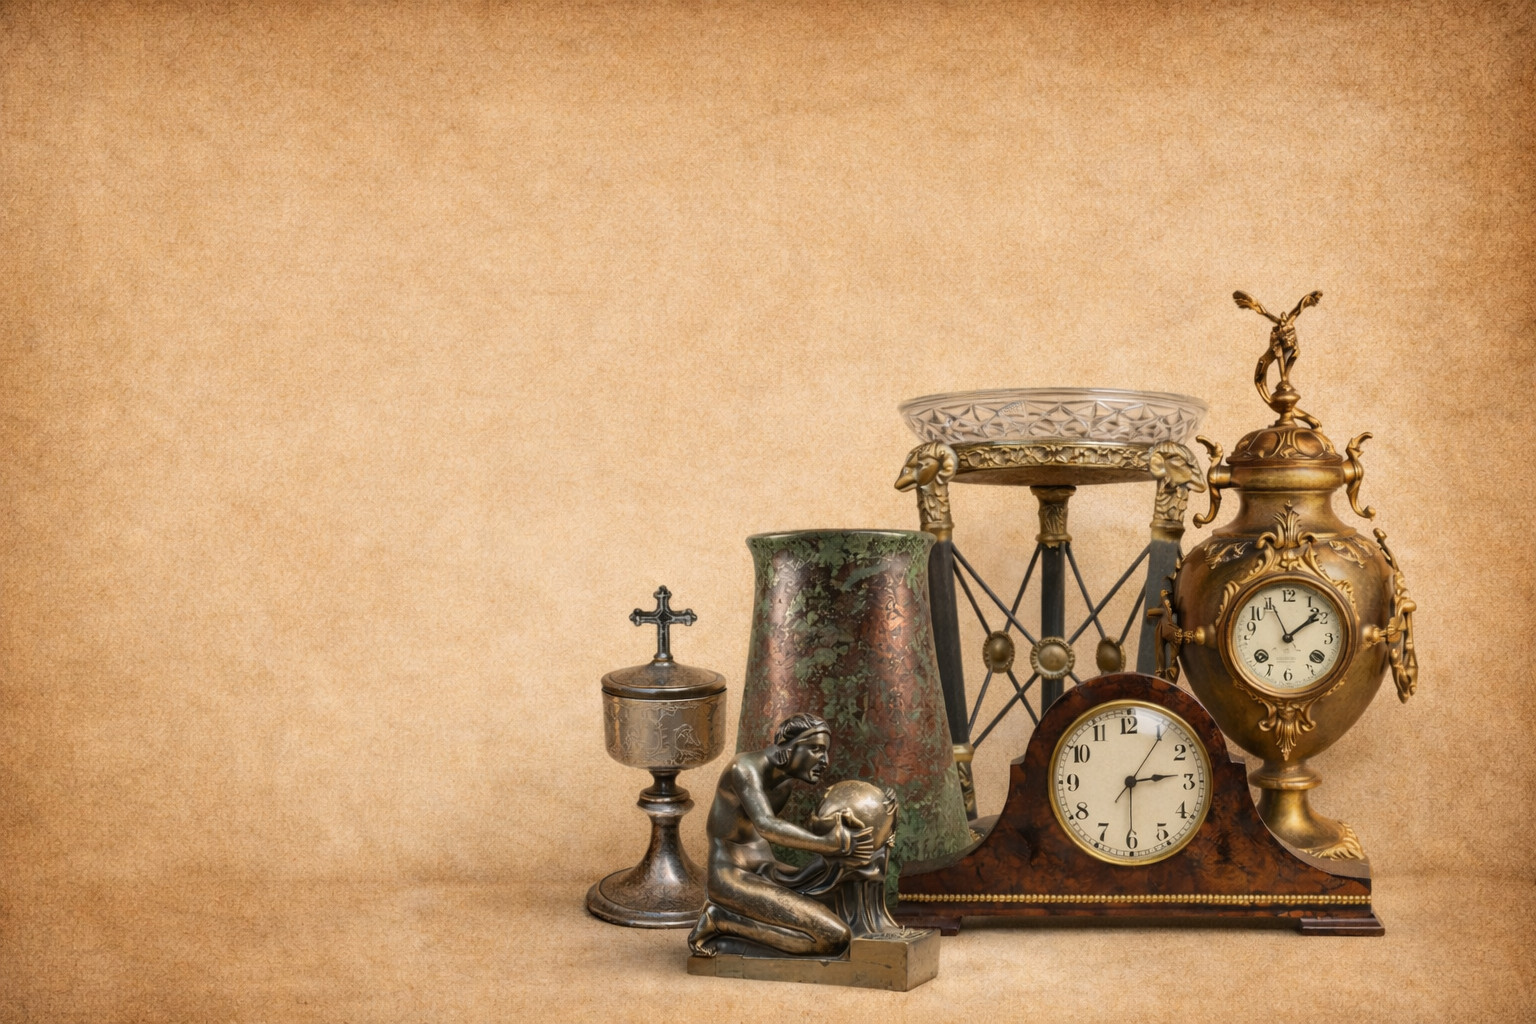
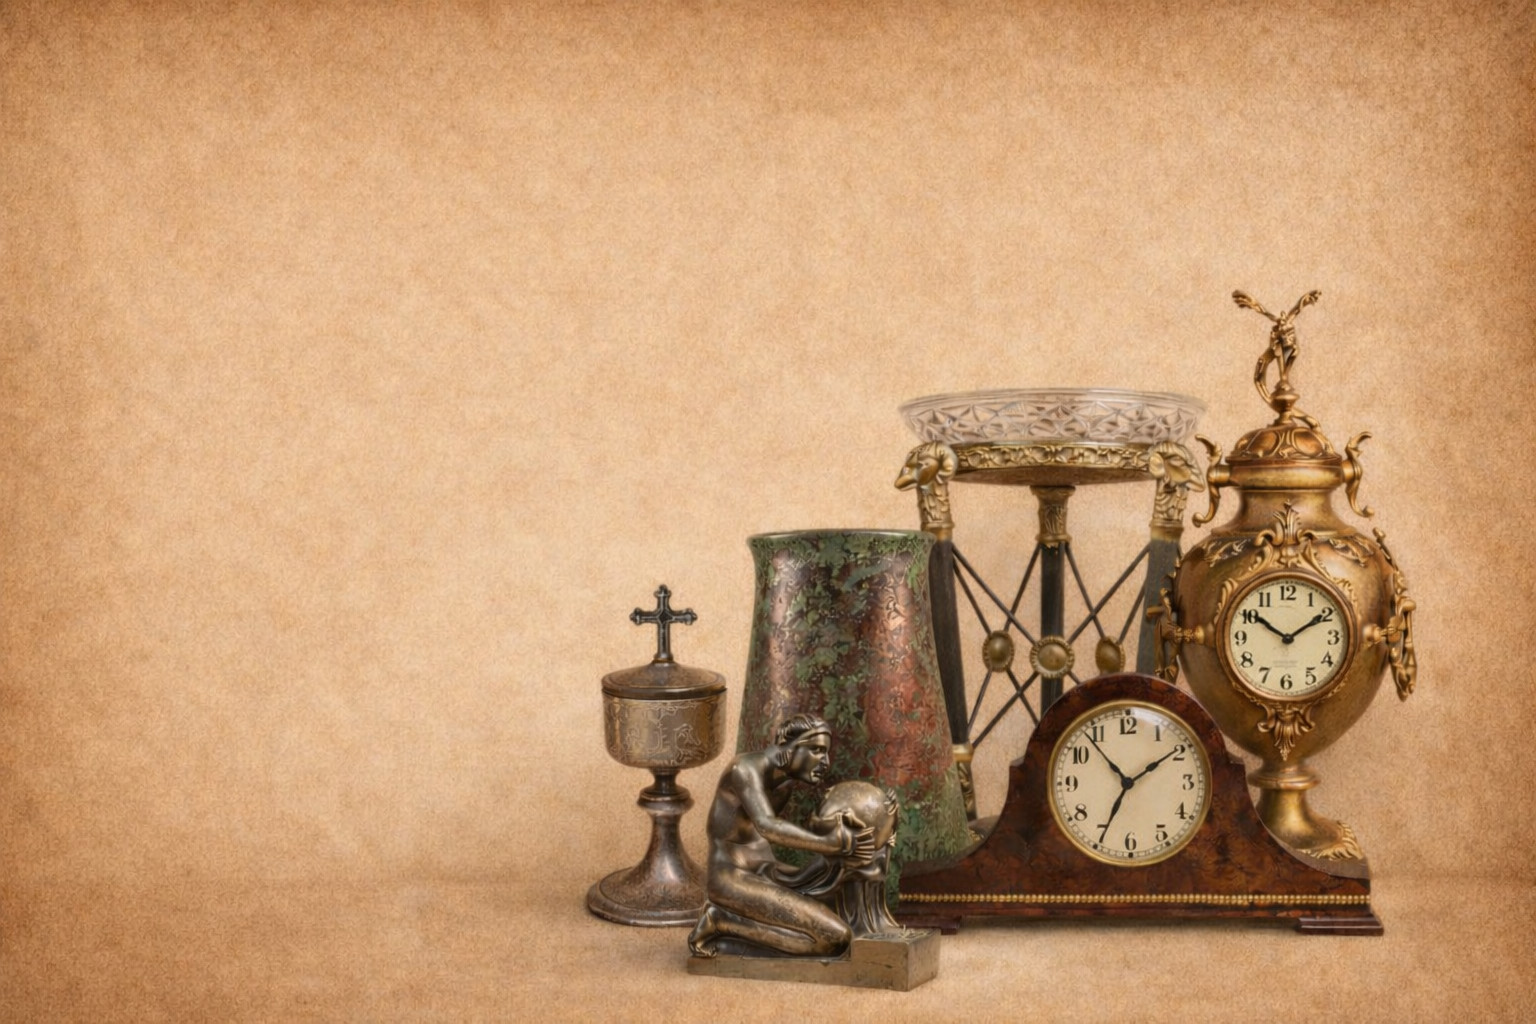
Changes to hero image style sheet and jpg

diff --git a/styles.css b/styles.css
@@ -230,6 +230,9 @@ button {
    ============================================ */
 .hero {
     background: linear-gradient(to bottom, var(--off-white) 0%, var(--white) 100%);
+    overflow: hidden; /* Important: prevents horizontal scroll */
+    position: relative;
+    width: 100%;
 }
 
 .hero-container {
@@ -241,6 +244,13 @@ button {
     gap: var(--spacing-xl);
     align-items: center;
     min-height: 70vh;
+    position: relative;
+    z-index: 2; /* Content above image */
+}
+
+.hero-content {
+    position: relative;
+    z-index: 2; /* Ensures content stays on top */
 }
 
 .hero-content h1 {
@@ -261,33 +271,40 @@ button {
     flex-wrap: wrap;
 }
 
+/* Full-width background image */
 .hero-image {
-  position: relative;
-  border-radius: var(--border-radius);
-  overflow: hidden;
+    position: absolute;
+    left: 0;
+    right: 0;
+    top: 0;
+    bottom: 0;
+    width: 100%;
+    height: 100%;
+    z-index: 1; /* Behind the content */
 }
 
 .hero-img {
-  width: 100%;
-  height: 500px;
-  object-fit: cover;
-  object-position: 78% center; /* <-- Yo, Banana, adjust the banner alignment here */
-  display: block;
+    width: 100%;
+    height: 100%;
+    object-fit: cover;
+    /* Center the image horizontally */
+    object-position: center 90%;
+    display: block;
 }
 
-/* Fade image toward the LEFT */
+/* Fade image toward the LEFT - creates the effect of fading under the text */
 .hero-image::after {
-  content: "";
-  position: absolute;
-  inset: 0;
-  background: linear-gradient(
-    to left,
-    rgba(250, 250, 249, 0) 0%,
-    rgba(250, 250, 249, 0.25) 35%,
-    rgba(250, 250, 249, 0.85) 65%,
-    rgba(250, 250, 249, 1) 80%
-  );
-  pointer-events: none;
+    content: "";
+    position: absolute;
+    inset: 0;
+    background: linear-gradient(
+        to right,
+        var(--off-white) 0%,
+        rgba(250, 250, 249, 0.95) 20%,
+        rgba(250, 250, 249, 0.5) 40%,
+        rgba(250, 250, 249, 0) 60%
+    );
+    pointer-events: none;
 }
 
 /* ============================================
@@ -381,47 +398,36 @@ button {
 
 .product-card h3 {
     font-size: 1rem;
-    font-weight: 500;
-    padding: var(--spacing-sm) var(--spacing-md) 0;
+    font-weight: 600;
     color: var(--black);
-    font-family: var(--font-sans);
+}
+
+.product-info {
+    padding: var(--spacing-md);
+}
+
+.product-info p {
+    font-size: 0.9rem;
+    color: var(--mid-gray);
+    margin-top: 0.25rem;
 }
 
 .product-price {
     font-size: 1.1rem;
     font-weight: 600;
     color: var(--black);
-    padding: var(--spacing-xs) var(--spacing-md);
-}
-
-.product-link {
-    display: block;
-    padding: var(--spacing-sm) var(--spacing-md);
-    color: var(--brass);
-    font-size: 0.9rem;
-    font-weight: 500;
-    transition: var(--transition);
-}
-
-.product-link:hover {
-    color: var(--brass-hover);
+    margin-top: var(--spacing-sm);
 }
 
 /* ============================================
-   NEWEST LISTINGS
+   NEWEST ARRIVALS
    ============================================ */
-.newest-listings {
+.newest-arrivals {
     background-color: var(--off-white);
 }
 
-.ebay-widget-container {
-    margin-top: var(--spacing-md);
-}
-
-/* Horizontal Scroll Fallback */
-.horizontal-scroll {
+.scroll-wrapper {
     position: relative;
-    margin-top: var(--spacing-md);
 }
 
 .scroll-container {
@@ -696,6 +702,21 @@ button {
         min-height: auto;
     }
     
+    /* Reset hero image positioning for smaller screens */
+    .hero-image {
+        position: relative;
+        left: auto;
+        right: auto;
+        top: auto;
+        bottom: auto;
+        width: 100%;
+        height: 400px;
+    }
+    
+    .hero-img {
+        object-position: center center;
+    }
+    
     .hero-content h1 {
         font-size: 2.5rem;
     }
@@ -770,6 +791,10 @@ button {
         text-align: center;
     }
     
+    .hero-image {
+        height: 300px;
+    }
+    
     .trust-container {
         grid-template-columns: 1fr;
         gap: var(--spacing-md);
@@ -802,6 +827,4 @@ button {
     .section-title {
         font-size: 1.75rem;
     }
-
 }
-
